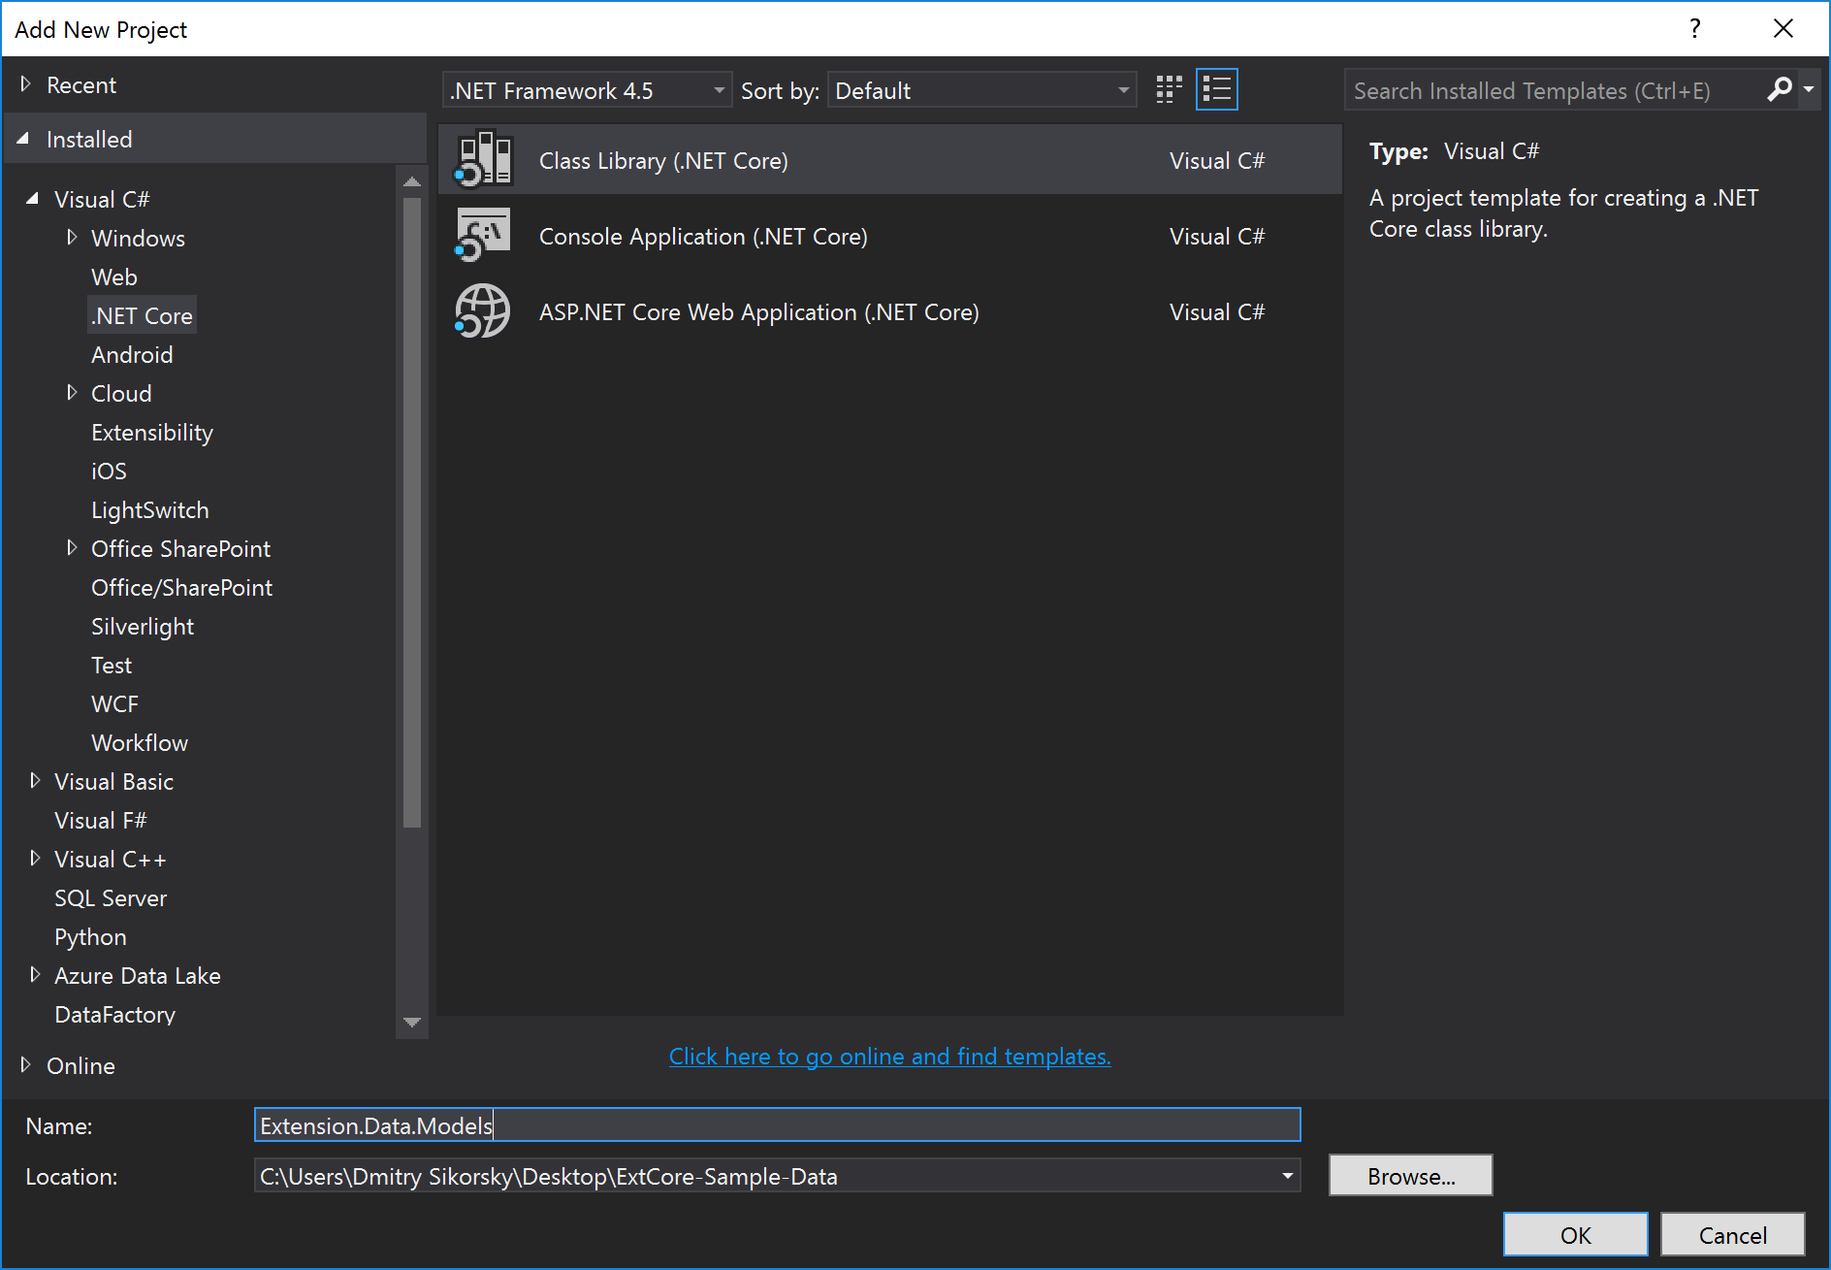
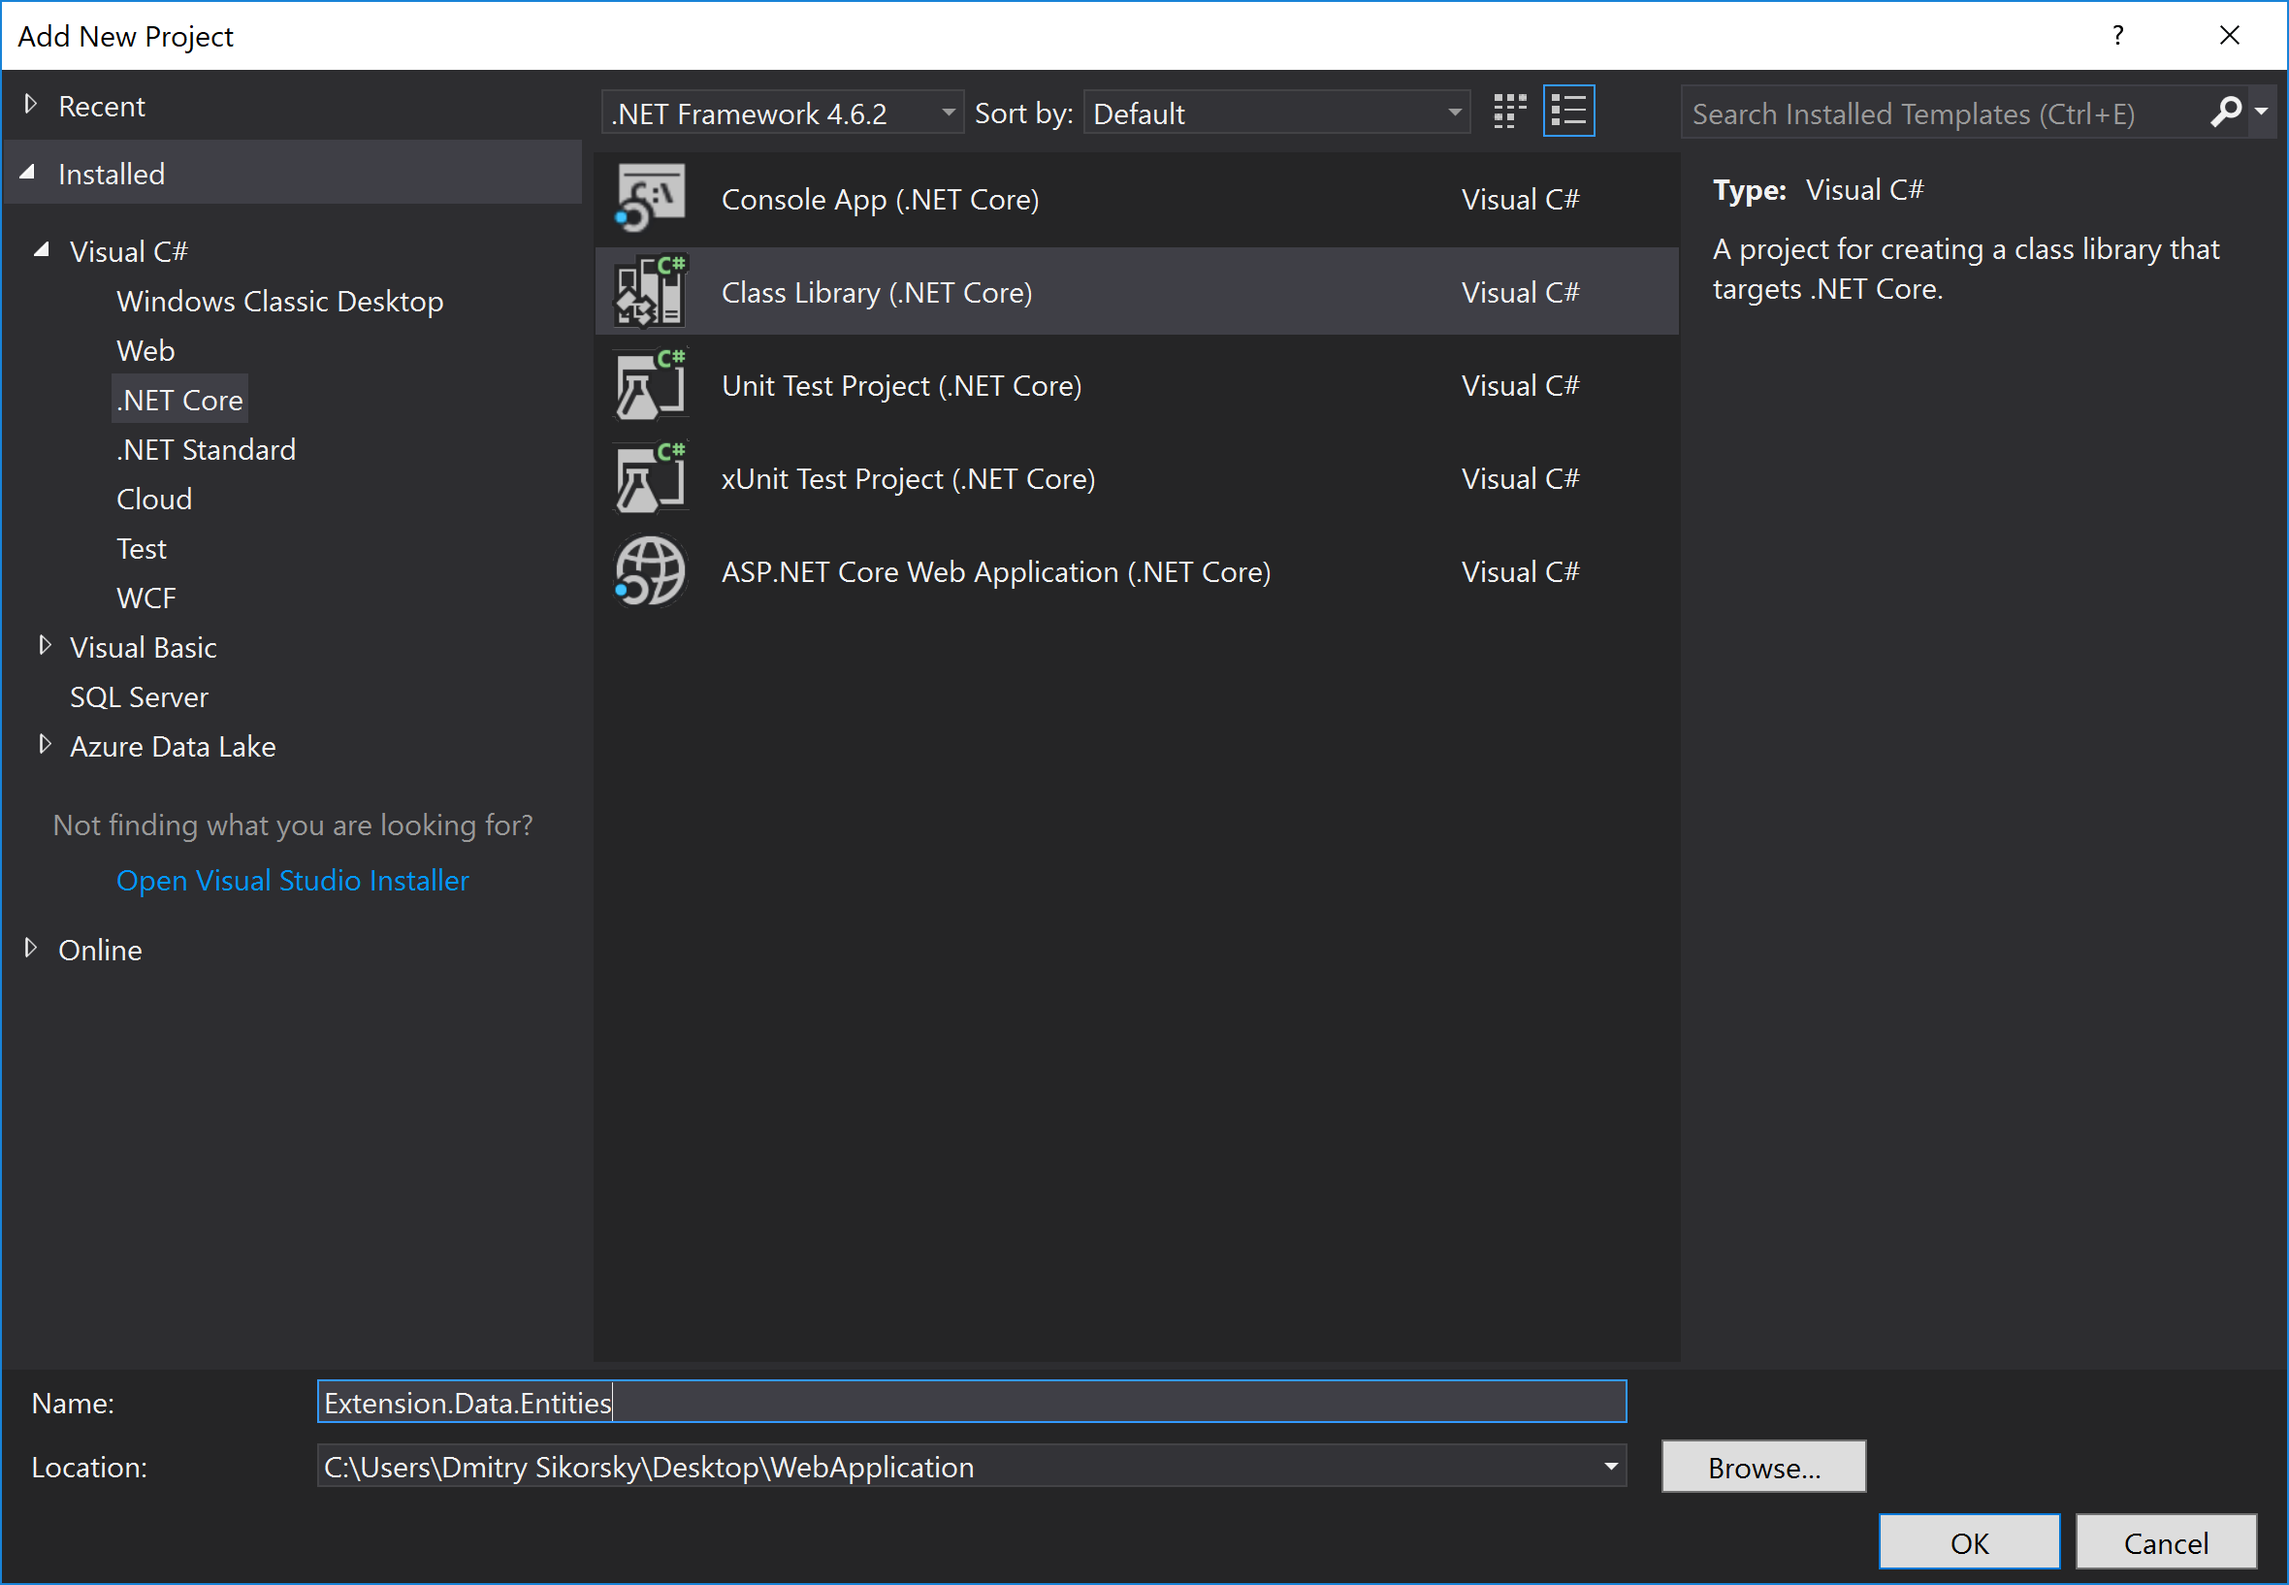
Updated tutorial

diff --git a/getting_started/tutorial_data.rst b/getting_started/tutorial_data.rst
@@ -8,40 +8,33 @@ to create ExtCore-based MVC web application first. We will use it as a base.
 So, we have the main web application and extension projects. They work but currently don’t
 know anything about data and storage. Let’s assume that we want our extension to display
 some data (the list of persons for example) from the storage (SQLite database for example) in its
-view. `ExtCore.Data <http://docs.extcore.net/en/latest/basic_extensions/extcore_data.html>`_
-extension will help us to achieve that goal.
+view. The `ExtCore.Data <http://docs.extcore.net/en/latest/extensions/extcore_data.html>`_
+and `ExtCore.Data.EntityFramework <http://docs.extcore.net/en/latest/extensions/extcore_data_entityframework.html>`_
+extensions will help us to achieve that goal.
 
 In short, we should do the following:
 
 * create the storage (SQLite database in this case);
-* describe the models (the only one ``Person`` model in this case);
-* describe the repositories to work with that models (abstraction and one implementation for each
+* describe the entities (the only one ``Person`` entity in this case);
+* describe the repositories to work with that entities (abstraction and one implementation for each
 of the supported storages; SQLite database support only in this case);
 * add logic for getting the persons from the database and displaying them.
 
-Describe the Models
--------------------
+Describe the Entities
+---------------------
 
-To be able to share models among different projects (and following the
-`ExtCore.Data <http://docs.extcore.net/en/latest/basic_extensions/extcore_data.html>`_ extension
-design pattern) we will describe model classes in the separate project.
+To be able to share entities among different projects (and following the
+`ExtCore.Data <http://docs.extcore.net/en/latest/extensions/extcore_data.html>`_ extension
+design pattern) we will describe entity classes in the separate project.
 
 Create new .NET Core class library project:
 
 .. image:: /images/tutorial_data/1.png
 
-Open project.json file and add dependency on ExtCore.Data.Models.Abstractions version 1.1.0.
-After that ``dependencies`` section of your project.json file should look like this:
+Open NuGet Package Manager and add dependency on the ExtCore.Data.Entities.Abstractions version 2.0.0-alpha1 package
+(be sure that Include prerelease checkbox is checked).
 
-.. code-block:: js
-    :emphasize-lines: 2
-
-    "dependencies": {
-      "ExtCore.Data.Models.Abstractions": "1.1.0",
-      "NETStandard.Library": "1.6.1"
-    }
-
-Create ``Person`` class that implements ``ExtCore.Data.Models.Abstractions.IEntity``. Create
+Create ``Person`` class that implements ``ExtCore.Data.Entities.Abstractions.IEntity``. Create
 ``Id`` and ``Name`` properties. After that ``Person`` class should look like this:
 
 .. code-block:: c#
@@ -55,14 +48,14 @@ Create ``Person`` class that implements ``ExtCore.Data.Models.Abstractions.IEnti
 Describe the Repositories
 -------------------------
 
-`ExtCore.Data <http://docs.extcore.net/en/latest/basic_extensions/extcore_data.html>`_ extension
+`ExtCore.Data <http://docs.extcore.net/en/latest/extensions/extcore_data.html>`_ extension
 implements Unit of Work and Repository design patterns. It means that all the work with the storage
-is performed in a single context, and it also means that every model have its own repository that
+is performed in a single context, and it also means that every entity has its own repository that
 contains all methods you need to work with it. Repositories when created are resolved automatically,
 so everything we need to do is to create corresponding repositories.
 
 To be able to share repositories among different projects (and following the
-`ExtCore.Data <http://docs.extcore.net/en/latest/basic_extensions/extcore_data.html>`_ extension
+`ExtCore.Data <http://docs.extcore.net/en/latest/extensions/extcore_data.html>`_ extension
 design pattern) we will describe repository classes in the separate projects (one for abstractions
 and one for each of the supported storages).
 
@@ -73,21 +66,11 @@ Create new .NET Core class library project:
 
 .. image:: /images/tutorial_data/2.png
 
-Open project.json file and add dependencies on ExtCore.Data.Models.Abstractions version 1.1.0
-and on ExtCoreExtension.Data.Models version 1.1.0. After that ``dependencies`` section of your
-project.json file should look like this:
+Open NuGet Package Manager and add dependency on the ExtCore.Data.Abstractions version 2.0.0-alpha1 package.
+Also add dependency on your local Extension.Data.Entities project.
 
-.. code-block:: js
-    :emphasize-lines: 2,3
-
-    "dependencies": {
-      "ExtCore.Data.Abstractions": "1.1.0",
-      "ExtCoreExtension.Data.Models": "1.1.0",
-      "NETStandard.Library": "1.6.1"
-    }
-
-Create ``IPersonRepository`` interface that implements ``ExtCore.Data.Abstractions.IRepository``.
-Create ``All`` method. After that ``IPersonRepository`` interface should look like this:
+Create ``IPersonRepository`` interface that implements the ``ExtCore.Data.Abstractions.IRepository`` one.
+Create ``All`` method there. After that the ``IPersonRepository`` interface should look like this:
 
 .. code-block:: c#
 
@@ -99,29 +82,19 @@ Create ``All`` method. After that ``IPersonRepository`` interface should look li
 SQLite Storage Support
 ~~~~~~~~~~~~~~~~~~~~~~
 
-Create new .NET Core class library project:
+Create one more .NET Core class library project:
 
 .. image:: /images/tutorial_data/3.png
 
-Open project.json file and add dependencies on ExtCore.Data.Models.Abstractions version 1.1.0
-and on ExtCoreExtension.Data.Abstractions version 1.1.0. After that ``dependencies`` section of your
-project.json file should look like this:
+Open NuGet Package Manager and add dependency on the ExtCore.Data.EntityFramework.Sqlite version 2.0.0-alpha1 package.
+Also add dependency on your local Extension.Data.Abstractions project.
 
-.. code-block:: js
-    :emphasize-lines: 2
-
-    "dependencies": {
-      "ExtCore.Data.EntityFramework.Sqlite": "1.1.0",
-      "ExtCoreExtension.Data.Abstractions": "1.1.0",
-      "NETStandard.Library": "1.6.1"
-    }
-
-Create ``ModelRegistrar`` class that implements ``ExtCore.Data.EntityFramework.Sqlite.IModelRegistrar``.
-Override RegisterModels method in this way:
+Create ``EntityRegistrar`` class that implements the ``ExtCore.Data.EntityFramework.IEntityRegistrar`` interface.
+Override ``RegisterEntities`` method in this way:
 
 .. code-block:: c#
 
-    public void RegisterModels(ModelBuilder modelbuilder)
+    public void RegisterEntities(ModelBuilder modelbuilder)
     {
       modelbuilder.Entity<Person>(etb =>
         {
@@ -132,15 +105,18 @@ Override RegisterModels method in this way:
       );
     }
 
-Create ``PersonRepository`` class that implements ``ExtCoreExtension.Data.Abstractions.IPersonRepository``
-and inherit it from ``ExtCore.Data.EntityFramework.Sqlite.RepositoryBase<Person>``. Create ``All`` method.
+Now create ``PersonRepository`` class that implements ``Extension.Data.Abstractions.IPersonRepository`` interface
+and inherit it from the ``ExtCore.Data.EntityFramework.RepositoryBase<Person>`` class. Create ``All`` method there.
 After that ``PersonRepository`` class should look like this:
 
 .. code-block:: c#
 
-    public IEnumerable<Person> All()
+    public class PersonRepository : RepositoryBase<Person>, IPersonRepository
     {
-      return this.dbSet.OrderBy(p => p.Name);
+      public IEnumerable<Person> All()
+      {
+        return this.dbSet.OrderBy(p => p.Name);
+      }
     }
 
 Modify Main Web Application
@@ -153,55 +129,23 @@ First of all create the SQLite database with one Persons (pay attention to the c
 table and few rows. You can use `SqliteBrowser <https://github.com/sqlitebrowser/sqlitebrowser>`_ for
 that.
 
-The second step is to add ``Data:DefaultConnection:ConnectionString`` parameter to config.json file:
+The second step is to add ``ConnectionStrings:Default`` parameter to the appsettings.json file:
 
 .. code-block:: js
-    :emphasize-lines: 1,2,4
+    :emphasize-lines: 1,3
 
-    "Data": {
-      "DefaultConnection": {
-        // Please keep in mind that you have to change '\' to '/' on Linux-based systems
-        "ConnectionString": "Data Source=..\\..\\..\\db.sqlite"
-      }
+    "ConnectionStrings": {
+      // Please keep in mind that you have to change '\' to '/' on Linux-based systems
+      "Default": "Data Source=..\\..\\..\\db.sqlite"
     }
 
-Finally open project.json file and add dependencies on ExtCore.Data.EntityFramework.Sqlite version
-1.1.0 and on ExtCore.Data version 1.1.0. After that ``dependencies`` section of your
-project.json file should look like this:
-
-.. code-block:: js
-    :emphasize-lines: 2
-
-    "dependencies": {
-      "ExtCore.Data": "1.1.0",
-      "ExtCore.Data.EntityFramework.Sqlite": "1.1.0",
-      "ExtCore.Mvc": "1.1.0",
-      "ExtCore.WebApplication": "1.1.0",
-      "Microsoft.AspNetCore.Server.IISIntegration": "1.1.0",
-      "Microsoft.AspNetCore.Server.Kestrel": "1.1.0",
-      "Microsoft.Extensions.Configuration.Json": "1.1.0",
-      "Microsoft.Extensions.Logging.Console": "1.1.0",
-      "Microsoft.NETCore.App": {
-        "version": "1.1.0",
-        "type": "platform"
-      }
-    }
+Finally, open NuGet Package Manager and add dependencies on the ExtCore.Data version 2.0.0-alpha1 and
+ExtCore.Data.EntityFramework.Sqlite version 2.0.0-alpha1 packages.
 
 Modify Extension
 ----------------
 
-Open project.json file and add dependency on ExtCoreExtension.Data.Abstractions version 1.1.0.
-After that ``dependencies`` section of your project.json file should look like this:
-
-.. code-block:: js
-    :emphasize-lines: 3
-
-    "dependencies": {
-      "ExtCore.Mvc.Infrastructure": "1.1.0",
-      "ExtCoreExtension.Data.Abstractions": "1.1.0",
-      "Microsoft.AspNetCore.Mvc": "1.1.0",
-      "NETStandard.Library": "1.6.1"
-    }
+Add dependency on your local Extension.Data.Abstractions project.
 
 Modify your ``DefaultController`` class to make it get parameter of type ``IStorage`` from the DI
 in the constructor and save that object to the private variable:
@@ -228,20 +172,19 @@ Now open your /Views/Default/Index.cshtml view and modify it in following way:
 
 .. code-block:: html
 
-    @model IEnumerable<ExtCoreExtension.Data.Models.Person>
+    @model IEnumerable<Extension.Data.Entities.Person>
     <h1>Hello From the Extension</h1>
     @foreach (var person in this.Model)
     {
       <p>@person.Name</p>
     }
 
-Rebuild the solution, put files ExtCoreExtension.dll, ExtCoreExtension.Data.Models.dll,
-ExtCoreExtension.Data.Abstractions.dll and ExtCoreExtension.Data.EntityFramework.Sqlite.dll
-to the extensions folder of the ExtCoreWebApplication, run the web application:
+Rebuild the solution, put files Extension.dll, Extension.Data.Entities.dll, Extension.Data.Abstractions.dll,
+and Extension.Data.EntityFramework.Sqlite.dll to the extensions folder of the WebApplication, run the web application:
 
 .. image:: /images/tutorial_data/4.png
 
 As we can see, data from the database is displayed.
 
 You can find the complete source of this sample project on GitHub: 
-`ExtCore Framework 1.1.0 Sample Web Application That Uses a Database <https://github.com/ExtCore/ExtCore-Sample-Data>`_.
+`ExtCore framework 2.0.0-alpha1 sample web application that uses a database <https://github.com/ExtCore/ExtCore-Sample-Data>`_.

diff --git a/getting_started/tutorial_mvc.rst b/getting_started/tutorial_mvc.rst
@@ -16,8 +16,8 @@ Modify Main Web Application
 
 Open NuGet Package Manager and add dependency on the ExtCore.Mvc package.
 
-Now open Startup.cs file and remove the ``applicationBuilder.Run`` method calling from the ``Configure one``,
-we don’t need it anymore.
+Now open Startup.cs file and remove the ``applicationBuilder.Run`` method calling from the ``Configure``
+one, we don’t need it anymore.
 
 Now your ``Startup`` class should look like this:
 
